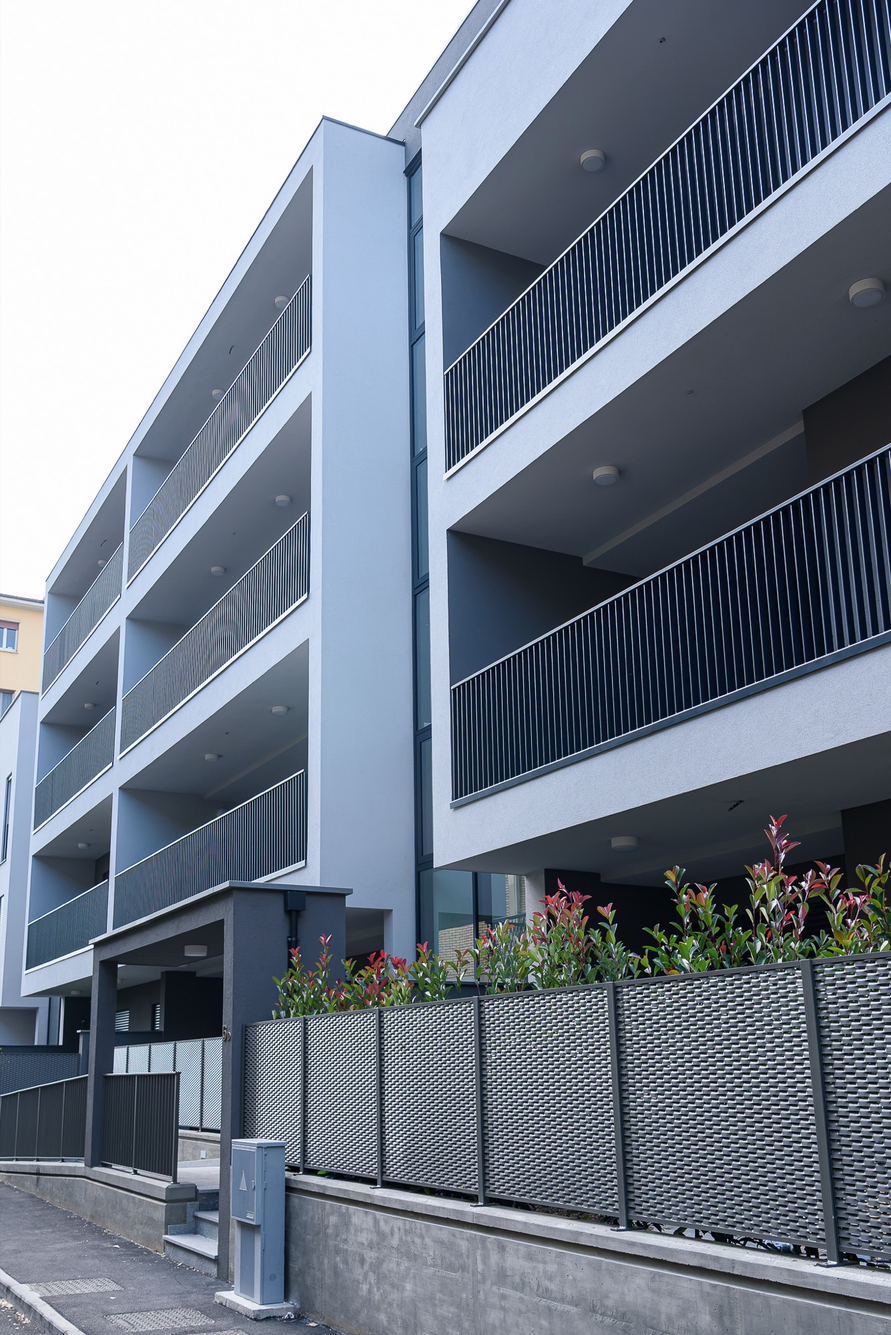
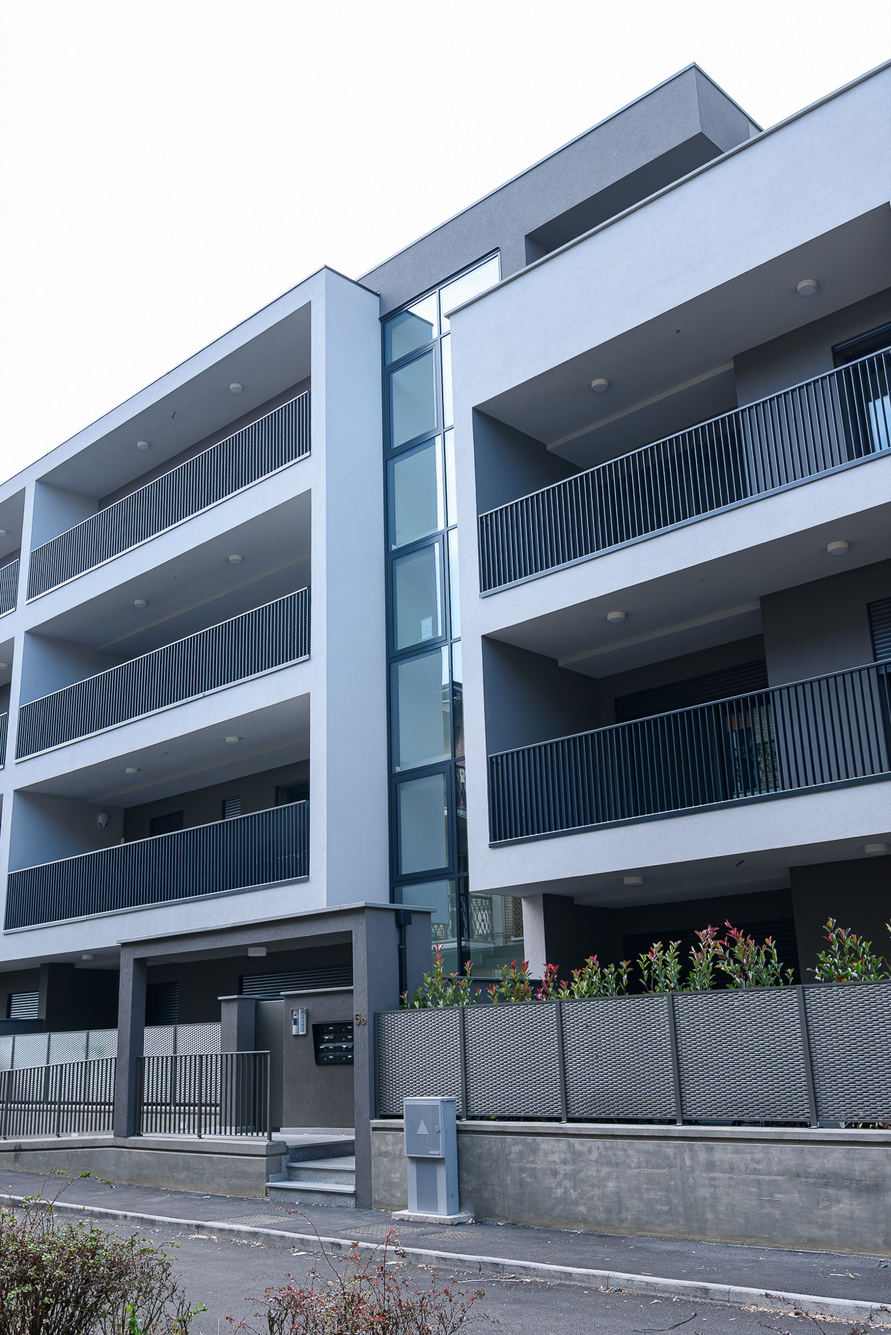
Completa il progetto Pedrengo con interni e autorimesse

diff --git a/app/lib/projects.ts b/app/lib/projects.ts
@@ -293,6 +293,12 @@ export const projects: Project[] = [
       "/projects/pedrengo/02.jpg",
       "/projects/pedrengo/03.jpg",
       "/projects/pedrengo/04.jpg",
+      "/projects/pedrengo/05.jpg",
+      "/projects/pedrengo/06.jpg",
+      "/projects/pedrengo/07.jpg",
+      "/projects/pedrengo/08.jpg",
+      "/projects/pedrengo/09.jpg",
+      "/projects/pedrengo/10.jpg",
     ],
     excerpt:
       "Un edificio residenziale dalle linee essenziali, con balconi continui, ringhiere metalliche e un vano scala vetrato.",
@@ -300,12 +306,14 @@ export const projects: Project[] = [
       "Un edificio residenziale dal disegno rigoroso: fasce orizzontali dei balconi, telai chiari e un corpo scala vetrato a scandire la facciata.",
     description: [
       "A Pedrengo l'edificio si sviluppa su più livelli con balconi continui che corrono lungo la facciata, protetti da ringhiere metalliche scure e inquadrati da telai intonacati chiari. Il vano scala vetrato separa i due fronti e porta luce naturale negli spazi comuni.",
-      "Al piano terra la recinzione e le fioriere definiscono il rapporto con la strada, mentre gli sbalzi della copertura chiudono il volume con un profilo netto.",
+      "L'involucro è completato, con recinzione e fioriere già in opera al piano terra. All'interno gli alloggi sono in fase di finitura: grandi vetrate scorrevoli sui soggiorni, bagni rivestiti in grès di grande formato, porte blindate e climatizzazione. Al piano interrato si trovano le autorimesse con box chiusi.",
     ],
     facts: [
       { label: "Località", value: "Pedrengo (BG)" },
       { label: "Stato", value: "In costruzione" },
       { label: "Tipologia", value: "Residenziale" },
+      { label: "Fase", value: "Finiture" },
+      { label: "Interrato", value: "Autorimesse con box" },
     ],
   },
   {
